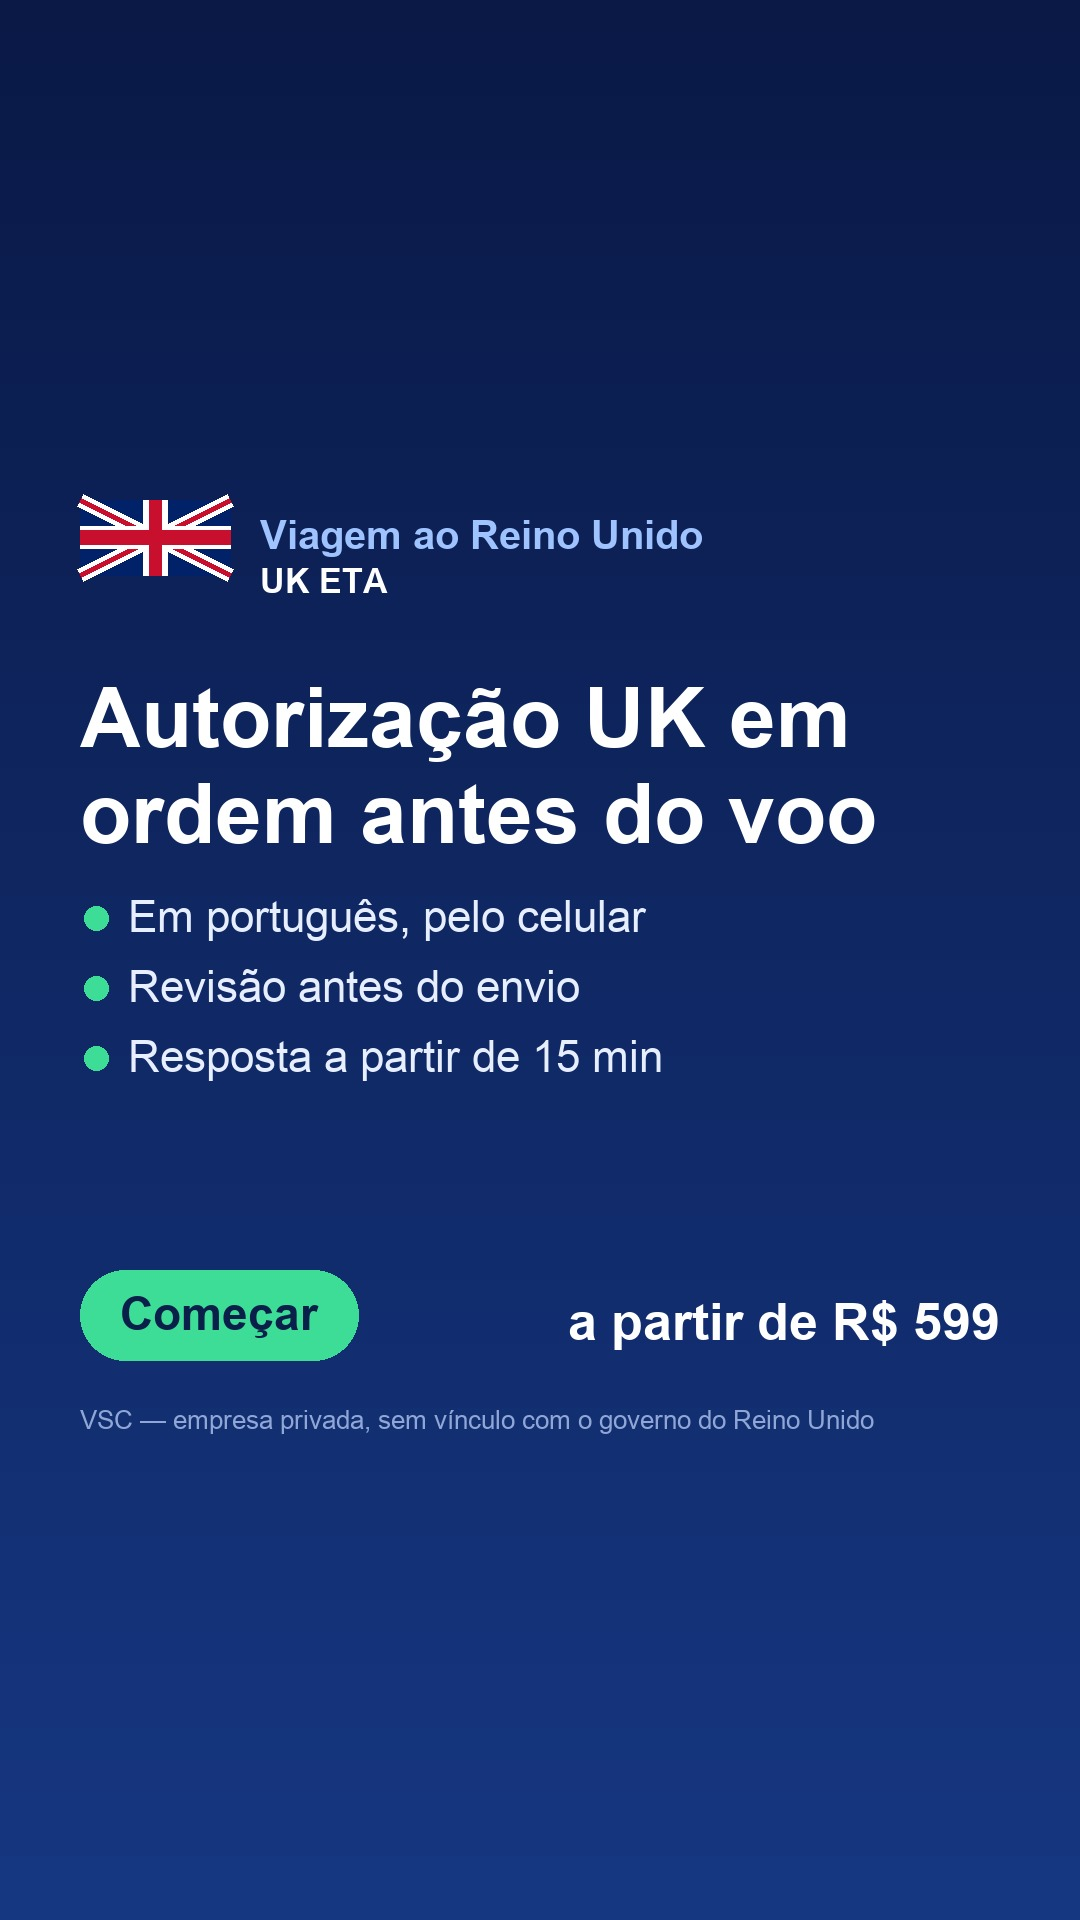
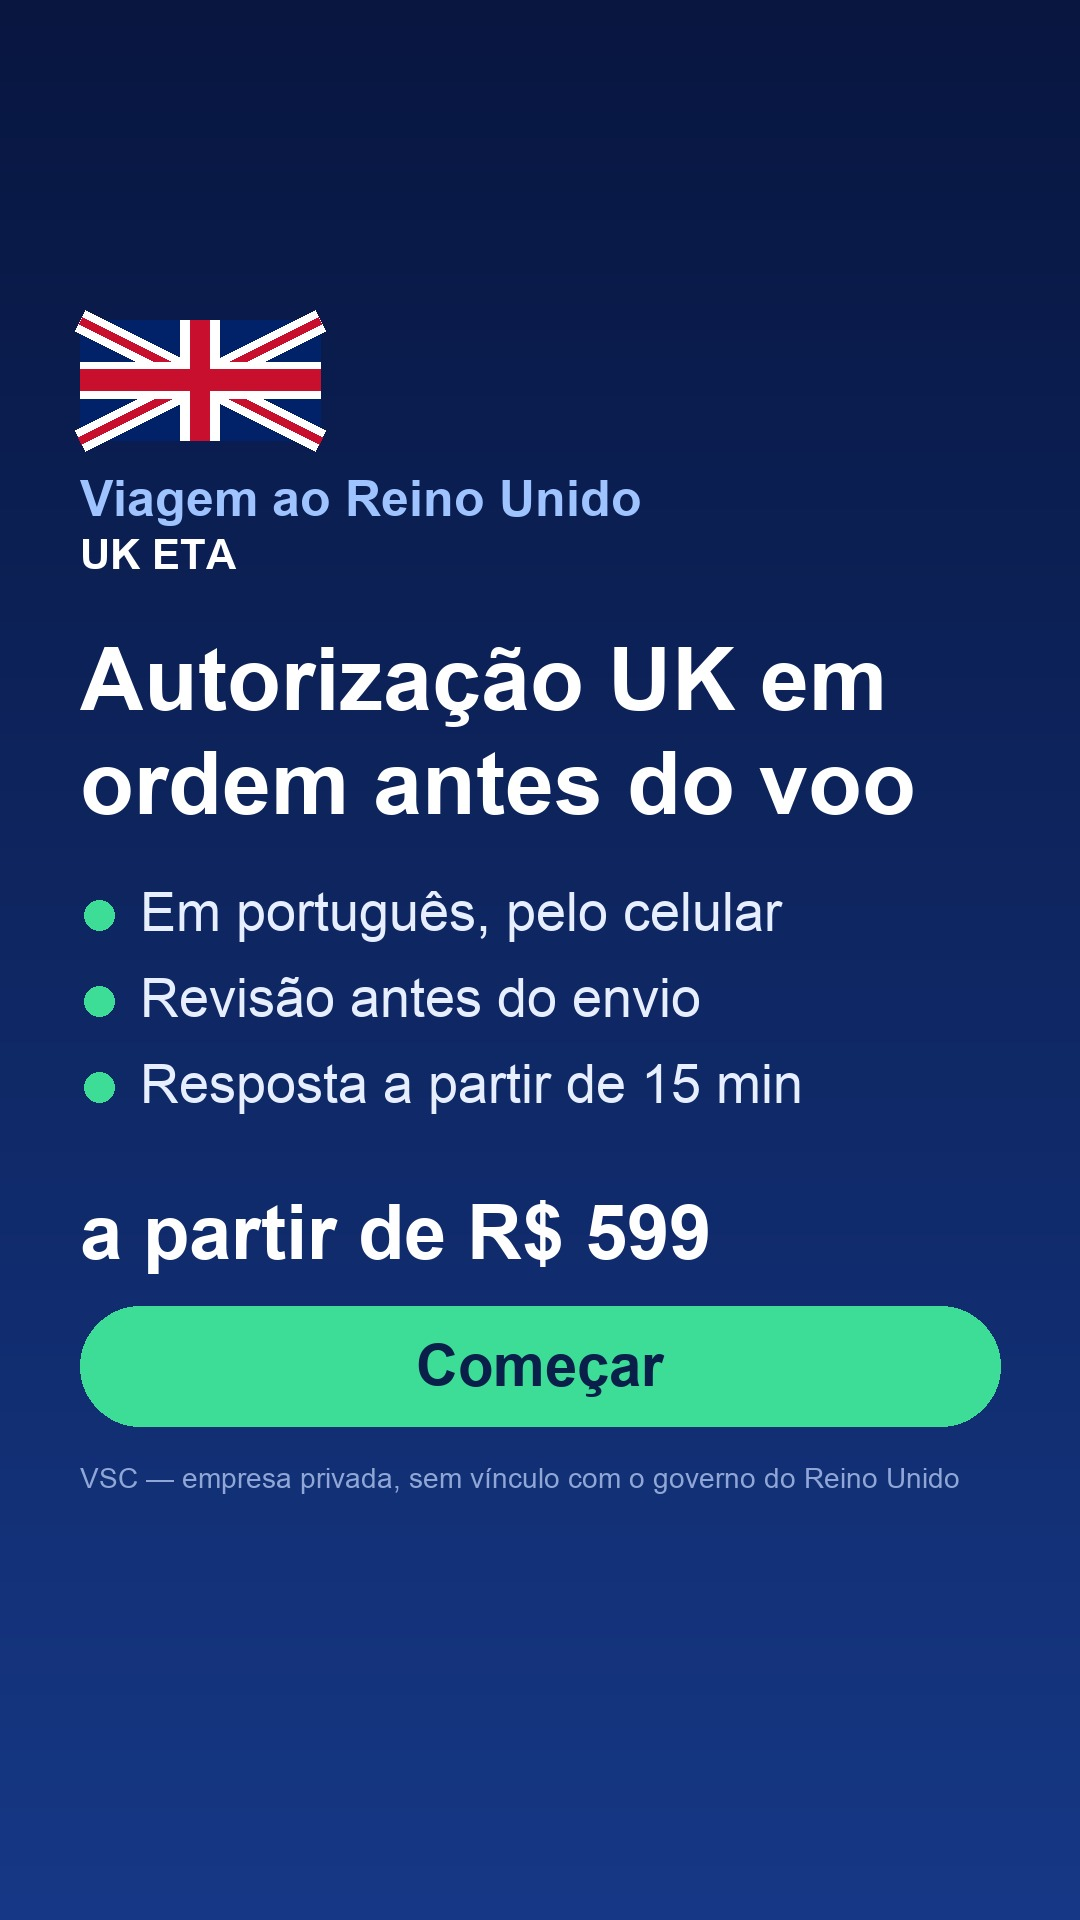
Креативы ETA 9:16: своя вёрстка под сторис — крупный шрифт, заголовок в 2 строки, блок по центру безопасной зоны

Changed region(s): [[0.0611, 0.1562, 0.8556, 0.4375], [0.0611, 0.625, 0.9472, 0.7812], [0.0611, 0.4688, 0.7333, 0.5938]]

diff --git a/vscom/tools/meta_creatives.py b/vscom/tools/meta_creatives.py
@@ -66,6 +66,53 @@ def eta(tag, kicker, head, bullets, price, cta, foot, H=W, suffix=""):
     d.text((80, 985 + oy), foot, font=font(False, 26), fill="#8FA6D6")
     save(im, "eta_" + tag, suffix)
 
+
+def eta_story(tag, kicker, head, bullets, price, cta, foot):
+    """Сторис 9:16. Сверху ~240 px закрывает имя аккаунта, снизу ~340 px — кнопка,
+    поэтому весь блок центрируется между 260 и 1560, крупно — смотрят с телефона."""
+    H, TOP, BOTTOM = 1920, 260, 1560
+    im = Image.new("RGB", (W, H))
+    d = ImageDraw.Draw(im)
+    for yy in range(H):
+        k = yy / H
+        d.line([(0, yy), (W, yy)], fill=(int(8 + 14 * k), int(22 + 34 * k), int(64 + 70 * k)))
+
+    def block(y, draw):
+        fh, fb, fc, ff = font(True, 88), font(False, 54), font(True, 58), font(False, 28)
+        if draw: flag_gb(d, 80, y, 240)
+        y += 150
+        if draw: d.text((80, y), kicker, font=font(True, 50), fill="#9FC3FF")
+        y += 60
+        if draw: d.text((80, y), "UK ETA", font=font(True, 42), fill="white")
+        y += 100
+        for ln in wrap(d, head, fh, W - 160):
+            if draw: d.text((80, y), ln, font=fh, fill="white")
+            y += 104
+        y += 44
+        for b in bullets:
+            if draw:
+                d.ellipse([84, y + 18, 114, y + 48], fill="#3DDC97")
+                d.text((140, y), b, font=fb, fill="#E6EEFF")
+            y += 86
+        y += 50
+        if draw: d.text((80, y), price, font=font(True, 76), fill="white")
+        y += 116
+        if draw:
+            d.rounded_rectangle([80, y, W - 80, y + 120], 60, fill="#3DDC97")
+            d.text((W // 2, y + 60), cta, font=fc, fill="#0A1F4A", anchor="mm")
+        y += 156
+        for ln in wrap(d, foot, ff, W - 160):
+            if draw: d.text((80, y), ln, font=ff, fill="#8FA6D6")
+            y += 38
+        return y
+
+    h = block(0, False)
+    lines = len(wrap(d, head, font(True, 88), W - 160))
+    assert lines <= 2, (tag, "заголовок не в 2 строки")
+    assert h <= BOTTOM - TOP, (tag, h)
+    block(TOP + (BOTTOM - TOP - h) // 2, True)
+    save(im, "eta_" + tag, "_9x16")
+
 ETA = [
     ("br", "Viagem ao Reino Unido", "Autorização UK em ordem antes do voo",
     ["Em português, pelo celular", "Revisão antes do envio", "Resposta a partir de 15 min"],
@@ -83,7 +130,7 @@ ETA = [
 ]
 for args in ETA:
     eta(*args)                      # 1:1 — лента Facebook и Instagram
-    eta(*args, H=1920, suffix="_9x16")  # 9:16 — сторис и Reels
+    eta_story(*args)                # 9:16 — сторис и Reels, своя вёрстка
 
 # ВНЖ Испании: фото + плашка
 NAVY = (10, 22, 54)
